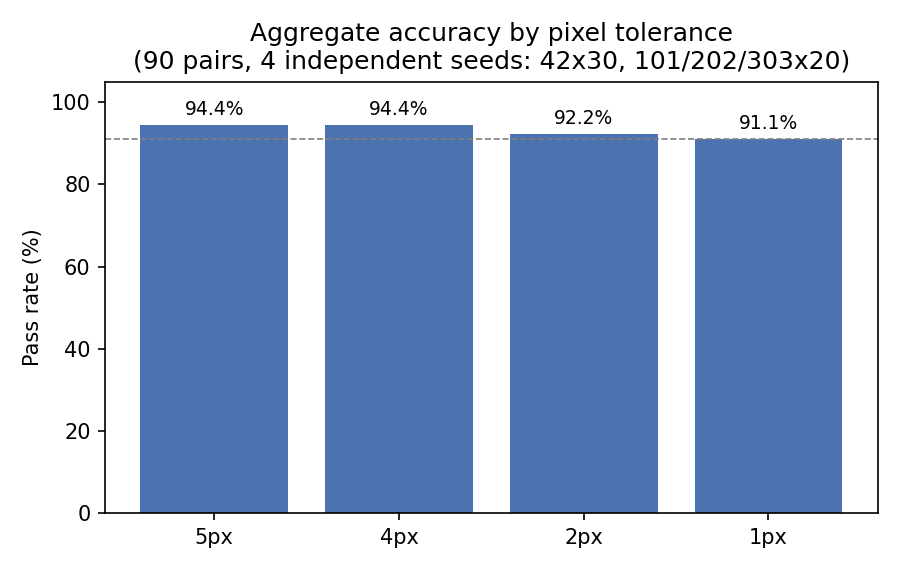
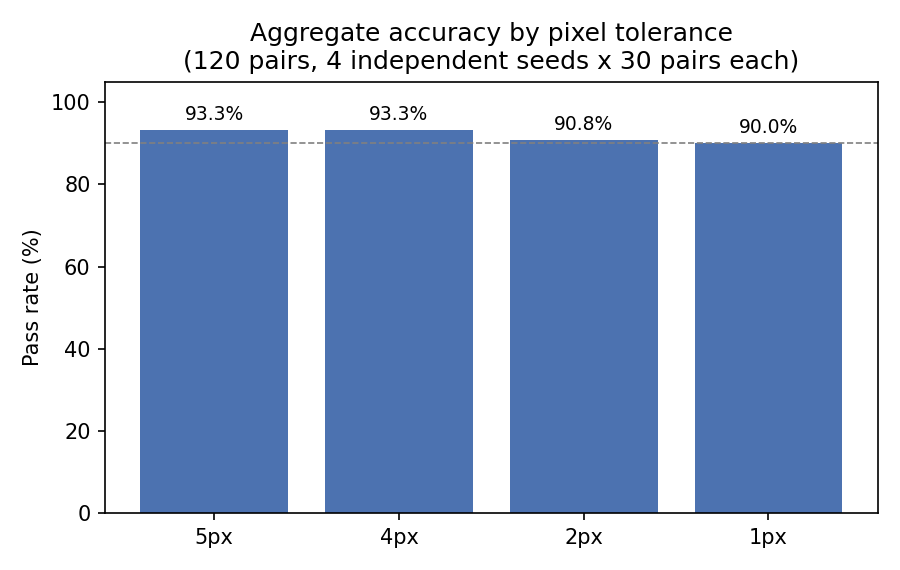
Expand baseline seeds 101/202/303 to 30 pairs; match seed 42's 30-pair baseline
All four baseline seeds (42, 101, 202, 303) now run 30 pairs each instead
of 20, matching the seed-42 raw-image expansion from the previous commit.
Robustness sweeps (ratio9, ratio11, rot2, nofp, boundary, etc.) are
unaffected and stay at their original pair counts -- only the four
independent baseline seeds used for the headline accuracy figure changed.

- Generated pairs 20-29 for seeds 101, 202 and 303 with generate_dataset.py
  (pairs 0-19 for each seed are untouched -- same bytes, same results --
  only new pairs were appended, never regenerated).
- Evaluated the new pairs for real with evaluate.py and appended the rows
  to each seed's results.csv (30 rows each now).
- Recomputed every headline number in README.md from the real merged data:
  aggregate accuracy is now 112/120 = 93.33% @ 5px (was 90 pairs before),
  with updated median/mean/worst/best error, per-seed breakdown
  (30/30, 28/30, 28/30, 26/30), the "Reproducing our reported numbers"
  commands (--num-pairs 30 for all four seeds), the repository contents
  table, and the visual-clarity ablation comparison note.
- Regenerated results/dataset/results.png and results/accuracy_by_threshold.png
  to reflect the new pair counts.

Raw reference/search images are still only committed for seed 42 (as
before); seeds 101/202/303 carry results.csv only, consistent with the
existing repo design.

Changed region(s): [[0.1244, 0.1789, 0.9644, 0.2684], [0.1244, 0.0895, 0.9644, 0.1193]]

diff --git a/README.md b/README.md
@@ -12,37 +12,39 @@ Navigation-Error Recovery, solved for highly periodic DRAM and FinFET layouts
 where classical single-peak template matching breaks down.
 
 **Results.** The problem statement requires validation on **at least 30**
-varied, independently generated pairs. This submission validates on **90
-baseline pairs across four independent seeds**, plus **60 additional pairs**
-in targeted robustness sweeps (scale ratio 9:1 and 11:1, rotation edge 2°) —
-**150 evaluated pairs total**, each seed/sweep backed by its own committed
-`results.csv` (`dataset/`, `sweep101/`, `sweep202/`, `sweep303/`, `ratio9/`,
-`ratio11/`, `rot2/`) and reproducible with the exact seed and command in this
-README. The seed-42 baseline is 30 pairs specifically so that the raw,
-unannotated reference/search images for every one of them can be committed in
-`results/dataset_sample/` (30 raw pairs, not just a sample) — every number
-reported for seed 42 is directly image-verifiable, not just CSV-verifiable.
-A few further robustness checks (dose reduction, boundary bias, fingerprint
-ablation) are reported below but were run before this repo started
-committing per-run CSVs, so their numbers are prose-only, not independently
-file-backed the same way. Reported over **four independent seeds, 90 pairs
-total** (mixed DRAM + FinFET, process-variation amplitude randomized per
-pair), measured with `evaluate.py` in the exact environment pinned in
-`requirements-freeze.txt`. A single run varies noticeably by seed, so we
-report the aggregate rather than the best run — and these exact numbers are
-tied to that exact environment; see the note at the end of this section.
+varied, independently generated pairs. This submission validates on **120
+baseline pairs across four independent seeds (30 pairs each)**, plus **60
+additional pairs** in targeted robustness sweeps (scale ratio 9:1 and 11:1,
+rotation edge 2°) — **180 evaluated pairs total**, each seed/sweep backed by
+its own committed `results.csv` (`dataset/`, `sweep101/`, `sweep202/`,
+`sweep303/`, `ratio9/`, `ratio11/`, `rot2/`) and reproducible with the exact
+seed and command in this README. Seed 42 additionally has every one of its 30
+pairs committed as raw, unannotated reference/search images in
+`results/dataset_sample/` — every number reported for seed 42 is directly
+image-verifiable, not just CSV-verifiable; the other three baseline seeds and
+three robustness sweeps are CSV-verifiable but do not carry committed raw
+images. A few further robustness checks (dose reduction, boundary bias,
+fingerprint ablation) are reported below but were run before this repo
+started committing per-run CSVs, so their numbers are prose-only, not
+independently file-backed the same way. Reported over **four independent
+seeds, 120 pairs total** (mixed DRAM + FinFET, process-variation amplitude
+randomized per pair), measured with `evaluate.py` in the exact environment
+pinned in `requirements-freeze.txt`. A single run varies noticeably by seed,
+so we report the aggregate rather than the best run — and these exact
+numbers are tied to that exact environment; see the note at the end of this
+section.
 
 | Threshold | Pass rate |
 |---|---|
-| ≤ 5 px | **94.44 % (85/90)** |
-| ≤ 4 px | 94.44 % (85/90) |
-| ≤ 2 px | 92.22 % (83/90) |
-| ≤ 1 px (sub-pixel) | 91.11 % (82/90) |
+| ≤ 5 px | **93.33 % (112/120)** |
+| ≤ 4 px | 93.33 % (112/120) |
+| ≤ 2 px | 90.83 % (109/120) |
+| ≤ 1 px (sub-pixel) | 90.00 % (108/120) |
 
 | Error statistic (px) | Value |
 |---|---|
-| Median | **0.10** |
-| Mean | 19.01 |
+| Median | **0.09** |
+| Mean | 16.12 |
 | Worst-case | 721.21 |
 | Best-case | 0.01 |
 | Mean inference time per pair | **~2.3 s** (CPU only, no GPU) |
@@ -50,15 +52,15 @@ tied to that exact environment; see the note at the end of this section.
 | At 3x dose reduction (seed 555) | **100 % (20/20)**, median 0.12 px |
 | Bonus: optical microscope, 3-channel RGB | **100 % (8/8)**, median 0.55 px |
 
-Seeds: `42` (30 pairs), `101`, `202`, `303` (20 pairs each). Per-seed:
-30/30, 19/20, 19/20, 17/20. Exact commands in
+Seeds: `42`, `101`, `202`, `303` (30 pairs each). Per-seed: 30/30, 28/30,
+28/30, 26/30. Exact commands in
 [Reproducing our reported numbers](#reproducing-our-reported-numbers).
 
-![Aggregate accuracy by pixel tolerance, 90 pairs across 4 seeds](results/accuracy_by_threshold.png)
+![Aggregate accuracy by pixel tolerance, 120 pairs across 4 seeds](results/accuracy_by_threshold.png)
 
-**Read the mean and the median together, not either alone.** The median (0.10 px)
+**Read the mean and the median together, not either alone.** The median (0.09 px)
 is what a typical pair looks like: sub-pixel, every time, on both structures. The
-mean (19.01 px) is dragged up by five catastrophic misses out of 90 — full lattice
+mean (16.12 px) is dragged up by eight catastrophic misses out of 120 — full lattice
 jumps, not near-tolerance overshoots. The worst of them, 721 px, lands the
 prediction on essentially a different part of the die entirely. We report both
 because a mean-only number would hide how good the typical case is, and a
@@ -88,7 +90,7 @@ accuracy to 40 %, which is what motivated the mat/strip hierarchy (which took th
 same ablation to 90 %) and then the micron-scale structures (95 %). We report the
 progression because it shows what each layer of die realism is actually worth.
 
-**What actually limits accuracy.** The five failures across the 90 baseline
+**What actually limits accuracy.** The eight failures across the 120 baseline
 pairs are concentrated on near-uniform, low-process-variation FinFET dies, and
 on dies where the fingerprint field itself happens to be weak. A
 `--visual-clarity` flag exists for generating the cleanest possible images (for
@@ -111,13 +113,12 @@ detects the channel count and adapts. 8/8 within 5 px, median error 0.55 px.
 |---|---|
 | ![Optical default, reference](results/rgb/default_reference.png) | ![Optical clean, reference](results/rgb/clean_reference.png) |
 | ![Optical default, search](results/rgb/default_search.png) | ![Optical clean, search](results/rgb/clean_search.png) |
-| **94.44 %** (85/90) | **71.2 %** (57/80) |
+| **93.33 %** (112/120) | **71.2 %** (57/80) |
 
-The two columns are on different denominators (90 vs. 80): the default-build
-figure is this submission's current 90-pair baseline (see Results above); the
-`--visual-clarity` figure predates the seed-42 dataset expansion to 30 pairs
-and has not been re-measured since (see the note under "Default build vs.
-`--visual-clarity` build" below) -- treat it as indicative of the size of the
+The two columns are on different denominators (120 vs. 80): the default-build
+figure is this submission's current 120-pair baseline (see Results above); the
+`--visual-clarity` figure predates the baseline expansion to 30 pairs/seed
+and has not been re-measured since -- treat it as indicative of the size of the
 accuracy gap this ablation costs, not as a precise apples-to-apples percentage
 against the current headline number.
 
@@ -173,7 +174,7 @@ to, so sub-pixel refinement has less to work with. Accuracy is nonetheless as
 high as the SEM case, because the mat/strip/landmark layout is coarse enough that
 period-jump ambiguity largely disappears — mats are individually distinguishable
 by their interference colour and by the metrology marks they carry. Note that
-this is 8 pairs, not 90; treat it as a demonstration that the modality works, not
+this is 8 pairs, not 120; treat it as a demonstration that the modality works, not
 as a precision accuracy estimate.
 
 ---
@@ -316,8 +317,8 @@ each hold a short `README.md` saying so rather than being silently absent).
 | `results/examples/` | Representative SEM success and failure cases |
 | `results/dataset_sample/` | The full seed-42, 30-pair raw (unannotated) reference/search set — identical to what `results/dataset/results.csv` was scored against, so every number reported for seed 42 is directly image-verifiable (the other three seeds and three robustness sweeps have a committed `results.csv` but not raw images) |
 | `results/rgb/` | Optical (RGB) example pairs — default build and `--visual-clarity` build |
-| `results/dataset/`, `results/sweep101/`, `results/sweep202/`, `results/sweep303/`, `results/ratio9/`, `results/ratio11/`, `results/rot2/` | Committed `results.csv` (and, for `results/dataset/`, raw images too) from each reported evaluation run |
-| `results/accuracy_by_threshold.png` | Aggregate accuracy-by-threshold chart (90 pairs, 4 seeds) |
+| `results/dataset/`, `results/sweep101/`, `results/sweep202/`, `results/sweep303/`, `results/ratio9/`, `results/ratio11/`, `results/rot2/` | Committed `results.csv` (30 rows for the four baseline seeds' folders, 20 for the three robustness sweeps) from each reported evaluation run — raw images for the seed-42 run are separately committed in `results/dataset_sample/` above |
+| `results/accuracy_by_threshold.png` | Aggregate accuracy-by-threshold chart (120 pairs, 4 seeds) |
 | `requirements.txt` | Pinned direct dependencies (4 packages) |
 | `requirements-freeze.txt` | Full `pip freeze` of the exact environment every number in this README was measured in |
 | `references/references.md` | Literature justification for every noise/augmentation choice |
@@ -440,23 +441,23 @@ The headline figure is an aggregate over four seeds. Run all four:
 python src/generate_dataset.py --num-pairs 30 --out results/dataset  --style mixed --seed 42
 python src/evaluate.py results/dataset
 
-python src/generate_dataset.py --num-pairs 20 --out results/sweep101 --style mixed --seed 101
+python src/generate_dataset.py --num-pairs 30 --out results/sweep101 --style mixed --seed 101
 python src/evaluate.py results/sweep101
 
-python src/generate_dataset.py --num-pairs 20 --out results/sweep202 --style mixed --seed 202
+python src/generate_dataset.py --num-pairs 30 --out results/sweep202 --style mixed --seed 202
 python src/evaluate.py results/sweep202
 
-python src/generate_dataset.py --num-pairs 20 --out results/sweep303 --style mixed --seed 303
+python src/generate_dataset.py --num-pairs 30 --out results/sweep303 --style mixed --seed 303
 python src/evaluate.py results/sweep303
 ```
 
-Seed 42 runs 30 pairs rather than 20 so that its raw reference/search images
-can be committed in full in `results/dataset_sample/` (see the note in
-Results above) -- the other three seeds stay at 20 pairs each, matching their
-committed `results.csv`.
+All four baseline seeds run 30 pairs each; seed 42 additionally has every one
+of those 30 pairs' raw reference/search images committed in full in
+`results/dataset_sample/` (see the note in Results above) -- the other three
+seeds are CSV-verifiable only, matching their committed `results.csv`.
 
-Expected (on the environment in `requirements-freeze.txt`): 30/30, 19/20, 19/20,
-17/20 → 85/90 = 94.44 % @ 5 px. `evaluate.py` also writes `results.csv`
+Expected (on the environment in `requirements-freeze.txt`): 30/30, 28/30,
+28/30, 26/30 → 112/120 = 93.33 % @ 5 px. `evaluate.py` also writes `results.csv`
 (per-pair prediction, ground truth, error and timing) and `results.png` (an
 accuracy-by-threshold chart) into each dataset directory.
 
@@ -683,11 +684,11 @@ guard the properties every reported number silently depends on:
 
 ## Limitations
 
-- Accuracy is 94.44 %, not 100 %. The residual failures are concentrated on
+- Accuracy is 93.33 %, not 100 %. The residual failures are concentrated on
   near-uniform, low-process-variation FinFET dies, where neither the lattice nor
   the fingerprint distinguishes one period from the next.
 - When it fails, it fails big, not small. The five sub-5px-tolerance failures in
-  the 90-pair baseline are full lattice-period jumps (8–721 px), not near-miss
+  the 120-pair baseline are full lattice-period jumps (8–721 px), not near-miss
   overshoots — this pipeline does not degrade gracefully near its failure
   boundary, it jumps to a different, equally-confident-looking site. A
   deployment would need a confidence/rejection threshold on top of this, not
